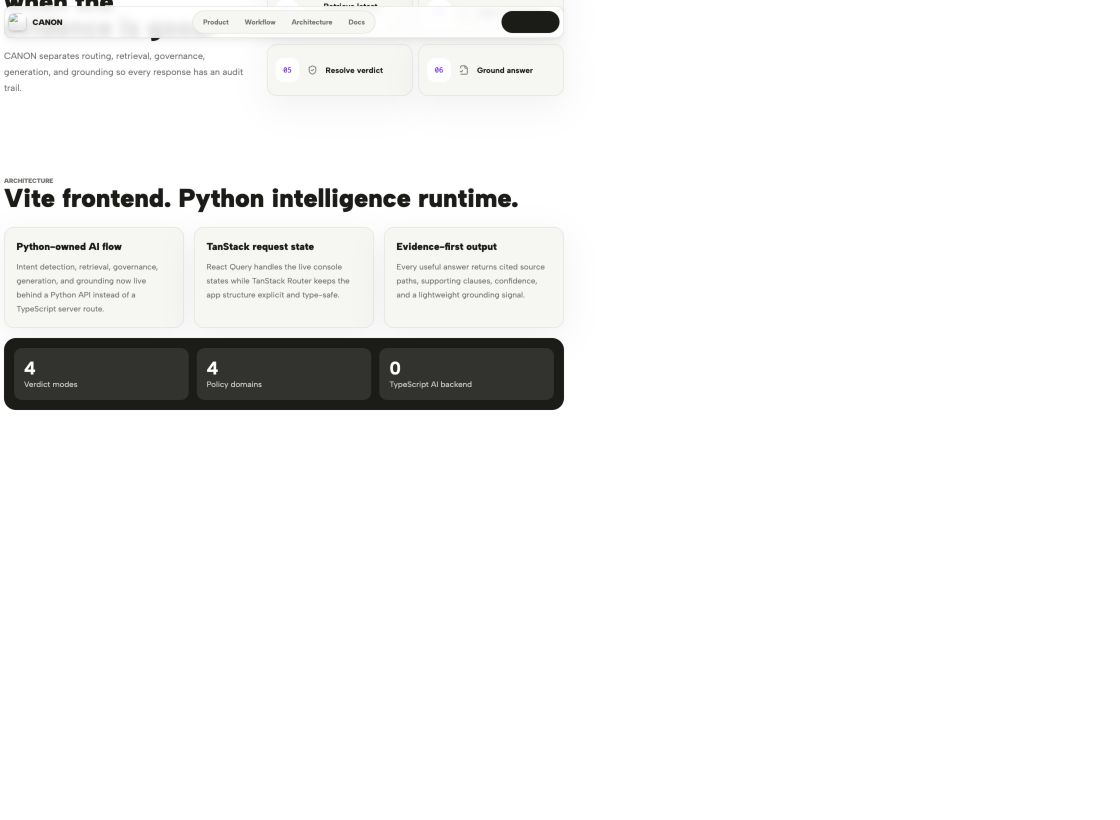
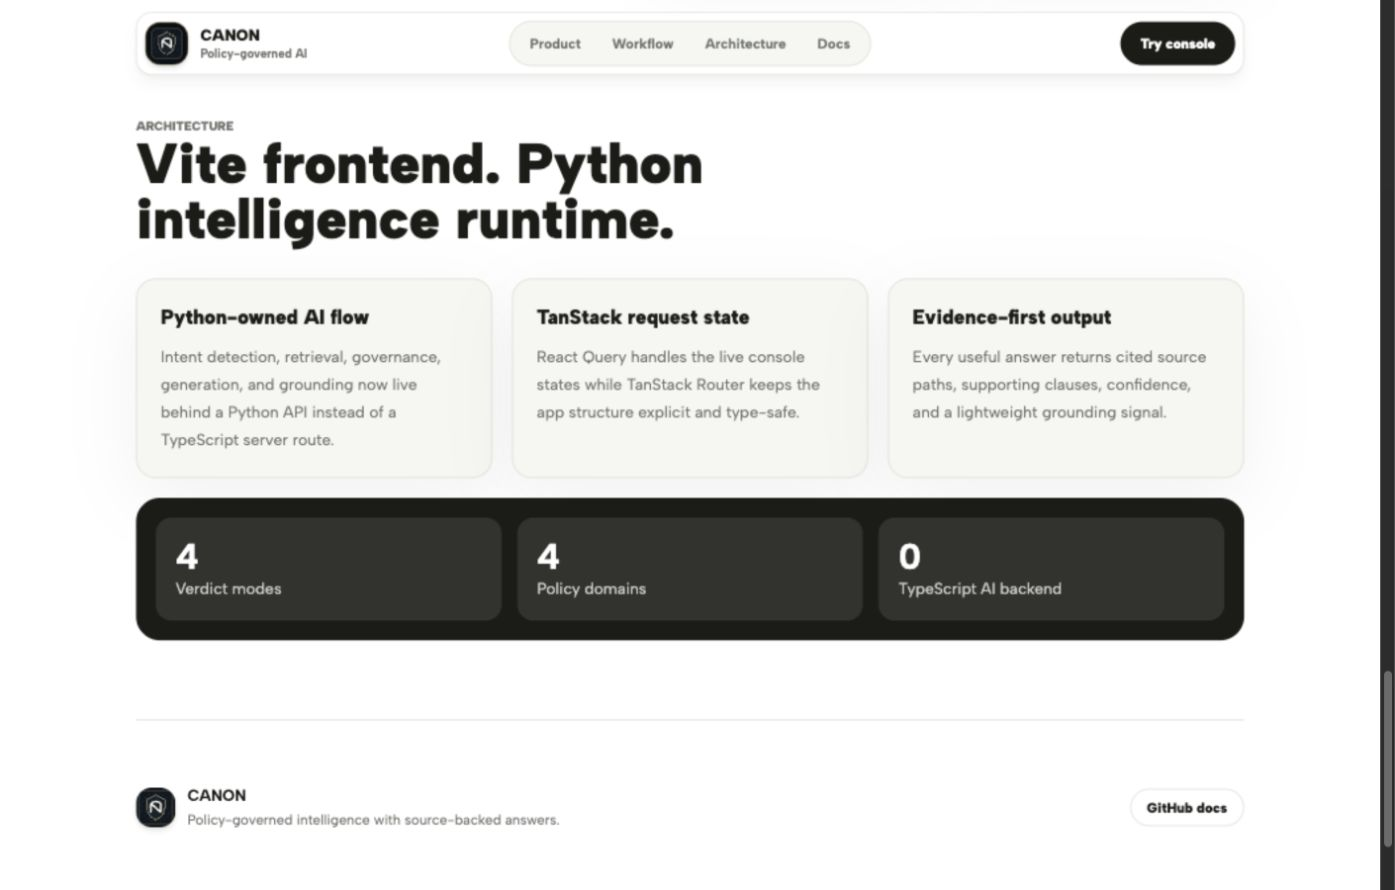
docs: refresh readme screenshots

diff --git a/frontend/src/screens/home.tsx b/frontend/src/screens/home.tsx
@@ -95,7 +95,7 @@ answer.format = {
 
       <QueryConsole />
 
-      <section id="product" className="mx-auto w-[min(1120px,calc(100%-32px))] py-20">
+      <section id="product" className="mx-auto w-[min(1120px,calc(100%-32px))] scroll-mt-28 py-20">
         <p className="eyebrow">Product</p>
         <h2 className="section-title">One policy brain with two clean surfaces.</h2>
         <div className="mt-8 grid grid-cols-2 gap-5 max-lg:grid-cols-1">
@@ -126,7 +126,7 @@ answer.format = {
         </div>
       </section>
 
-      <section id="workflow" className="mx-auto grid w-[min(1120px,calc(100%-32px))] grid-cols-[0.9fr_1.1fr] gap-10 py-20 max-lg:grid-cols-1">
+      <section id="workflow" className="mx-auto grid w-[min(1120px,calc(100%-32px))] scroll-mt-28 grid-cols-[0.9fr_1.1fr] gap-10 py-20 max-lg:grid-cols-1">
         <div>
           <p className="eyebrow">Workflow</p>
           <h2 className="section-title">Ask anything. Answer only when the evidence is good.</h2>
@@ -150,7 +150,7 @@ answer.format = {
         </div>
       </section>
 
-      <section id="architecture" className="mx-auto w-[min(1120px,calc(100%-32px))] py-20">
+      <section id="architecture" className="mx-auto w-[min(1120px,calc(100%-32px))] scroll-mt-28 py-20">
         <p className="eyebrow">Architecture</p>
         <h2 className="section-title">Vite frontend. Python intelligence runtime.</h2>
         <div className="mt-8 grid grid-cols-3 gap-5 max-lg:grid-cols-1">
@@ -170,6 +170,21 @@ answer.format = {
           ))}
         </div>
       </section>
+
+      <footer id="docs" className="mx-auto mb-48 w-[min(1120px,calc(100%-32px))] scroll-mt-28 border-t border-[var(--line)] py-16">
+        <div className="flex flex-wrap items-center justify-between gap-6">
+          <div className="flex items-center gap-3">
+            <img src="/canon-logo.svg" alt="" className="h-10 w-10 rounded-2xl shadow-md" />
+            <div>
+              <strong className="block">{productConfig.name}</strong>
+              <span className="text-sm text-[var(--muted)]">Policy-governed intelligence with source-backed answers.</span>
+            </div>
+          </div>
+          <a className="rounded-full border border-[var(--line)] px-4 py-2 text-sm font-black hover:border-[var(--ink)]" href="https://github.com/ayushcodes13/canon">
+            GitHub docs
+          </a>
+        </div>
+      </footer>
     </main>
   );
 }

diff --git a/frontend/src/sections/query-console.tsx b/frontend/src/sections/query-console.tsx
@@ -21,7 +21,7 @@ export function QueryConsole() {
   }
 
   return (
-    <section id="console" className="mx-auto w-[min(1120px,calc(100%-32px))] py-20">
+    <section id="console" className="mx-auto w-[min(1120px,calc(100%-32px))] scroll-mt-28 py-20">
       <div className="motion-rise max-w-3xl">
         <p className="eyebrow">Live Console</p>
         <h2 className="section-title">Run the governed retrieval flow.</h2>
